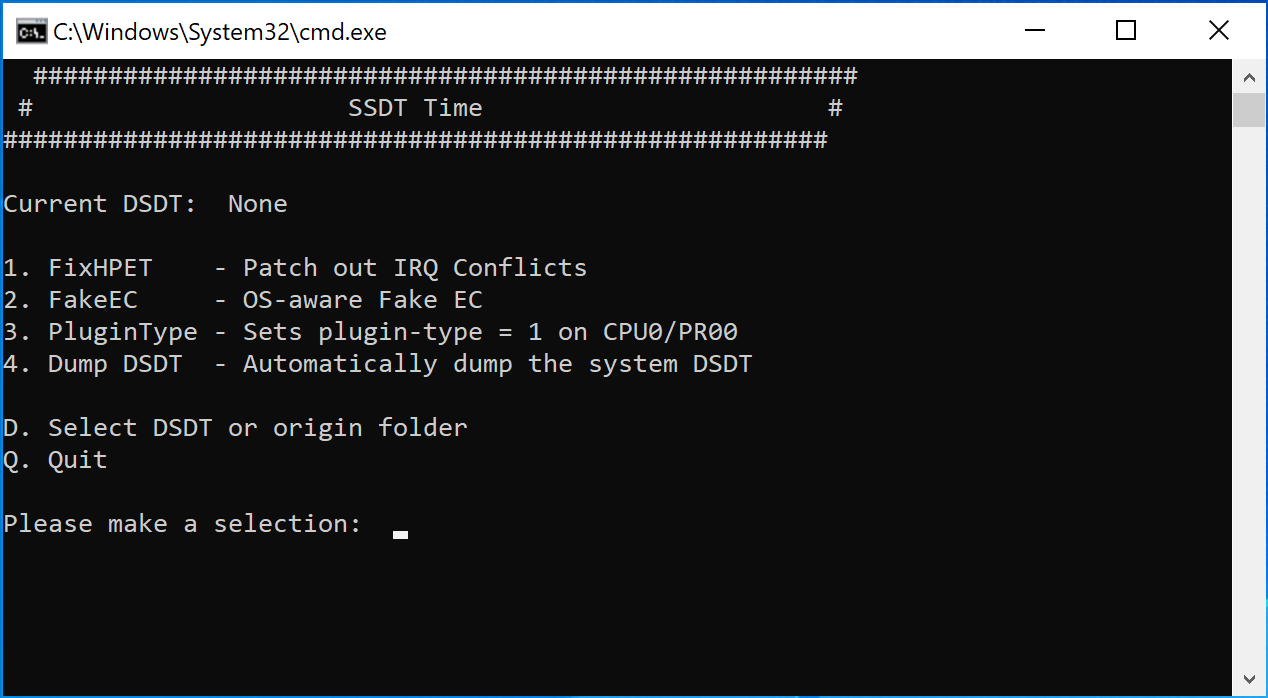
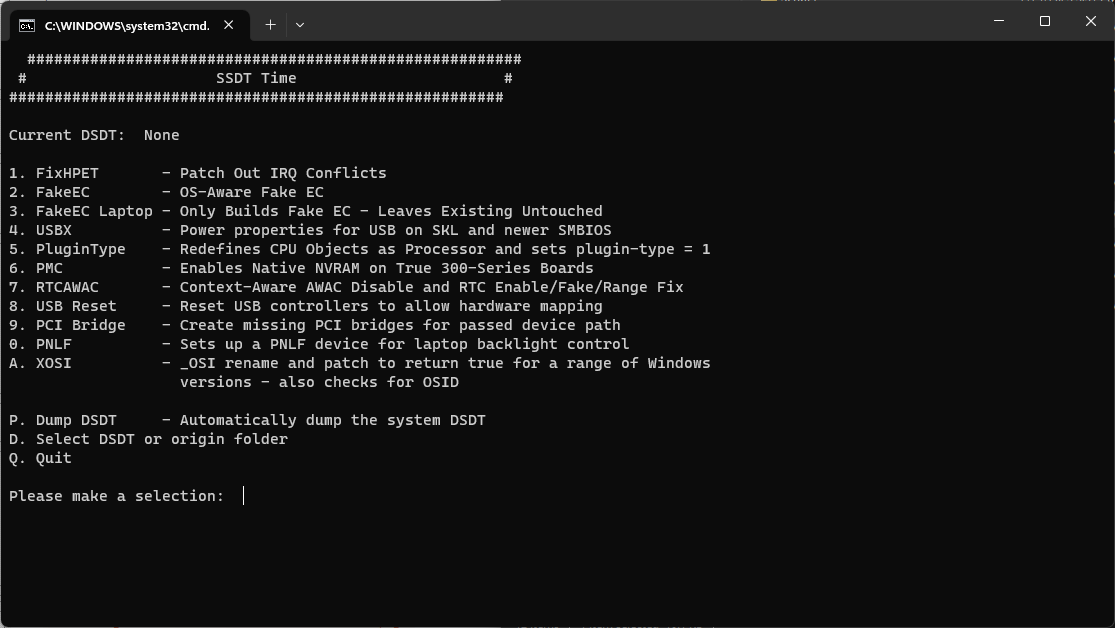
First Draft for ssdt-easy.md
Updated information regarding enhancements to SSDTTime -- First Draft

Changed region(s): [[0.0, 0.0, 1.0, 1.0], [0.5794, 0.5748, 0.6404, 0.6051], [0.3049, 0.7564, 0.3354, 0.7866]]

diff --git a/ssdt-methods/ssdt-easy.md b/ssdt-methods/ssdt-easy.md
@@ -6,16 +6,10 @@ What this tool does is, it dumps your DSDT from your firmware, and then creates 
 
 ## So what **CAN'T** SSDTTime do
 
-* **SSDT-PNLF**:
-  * Need to be configured to your system
 * **SSDT-GPI0**:
   * Need to be configured to your system
-* **USBX SSDT**:
-  * This is included on sample SSDTs but SSDTTime only makes the SSDT-EC part, Skylake and newer users can grab a pre-built here: [SSDT-USBX.aml](https://github.com/dortania/OpenCore-Post-Install/blob/master/extra-files/SSDT-USBX.aml)
 * **IMEI SSDT**:
   * If you have either a Sandy bridge CPU with 7 series motherboard or Ivy Bridge with 6 series motherboard, you'll need to either use the prebuilt or manually create it.
-* **RTC0 RANGE SSDT**:
-  If you have X99 or X299, you'll need to configure it to your system
 
 For users who don't have all the options available to them in SSDTTime, you can follow the "SSDTs: The long way" section. You can still use SSDTTime for SSDTs it does support.
 
@@ -33,15 +27,23 @@ What are all these options?:
   * This is the SSDT-EC, required for Catalina users
 * `3. FakeEC Laptop  - OS-aware Fake EC`
   * This is the SSDT-EC, but the laptop version only Builds Fake EC and leaves the existing EC devices untouched, again required for Catalina users
-* `4. PluginType - Sets plugin-type = 1 on First ProcessorObj`
+* `4. USBX - Power properties for USB on SKL and newer SMBIOS`
+  * This is the SSDT-USBX.  The prebuilt version can be used if desired, but SSDTTime can generate one from your DSDT.
+* `5. PluginType - Sets plugin-type = 1 on First ProcessorObj`
   * This is the SSDT-PLUG, for Intel only
-* `5. PMC - Sets Power Management controller status`
+* `6. PMC - Sets Power Management controller status`
   * This is the SSDT-PMC, for Intel true 300+ series only, this device is missing from ACPI in recent boards and helps to bring back NVRAM support.
-* `6. AWAC - Context-Aware AWAC Disable and RTC Fake`
-  * This is the SSDT-AWAC/RTC0, its purpose  is to fix the system clocks found on newer hardware
-* `7. USB Reset     - Reset USB controllers to allow hardware mapping`
+* `7. RTCAWAC - Context-Aware AWAC Disable and and RTC ENable/Fake/Range Fix`
+  * This is the SSDT-AWAC/RTC0, its purpose  is to fix the system clocks found on newer hardware, and also enable, fake, and/or fix the range.
+* `8. USB Reset     - Reset USB controllers to allow hardware mapping`
   * This is SSDT-RHUB, used for resetting USB ports in macOS for Asus's Z490 motherboards
-* `8. Dump DSDT  - Automatically dump the system DSDT`
+* `9. PCI Bridge - Create missing PCI bridges for passed device path`
+  * This will create missing PCI bridges necessary for passing device path.
+* `0. PNLF - Sets up a PNLF device for laptop backlight control.`
+  * This a customized SSDT-PNLF, tailored for the specific system.  This is not automatic and you must specify the generation of the iGPU.
+* `A. XOSI - _OSI rename and patch to return true for a range of Windows versions - also checks for OSID`
+  * This is SSDT-XOSI, can also create a patch for OSID and keep it in the correct order.
+* `P. Dump DSDT  - Automatically dump the system DSDT`
   * Dumps your DSDT from your firmware
 
 What we want to do is select option `8. Dump DSDT` first, then select the appropriate option(s) for your system.
